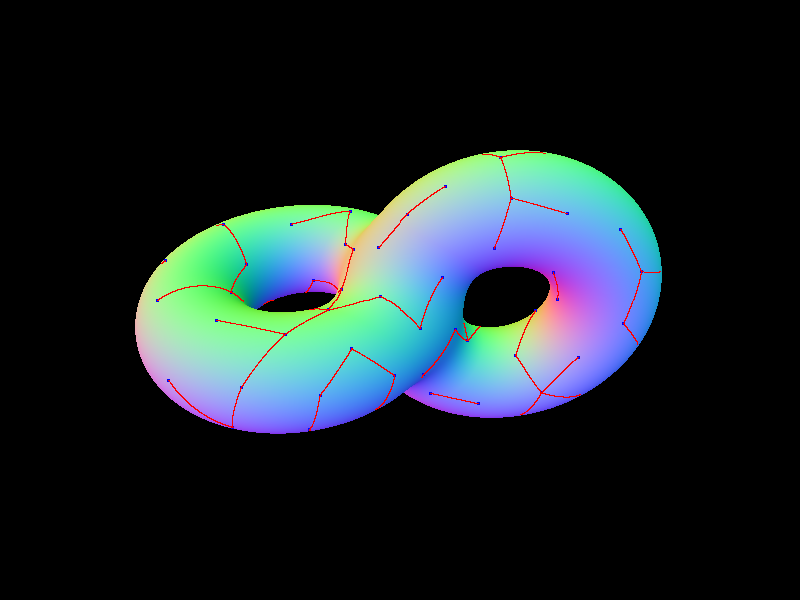
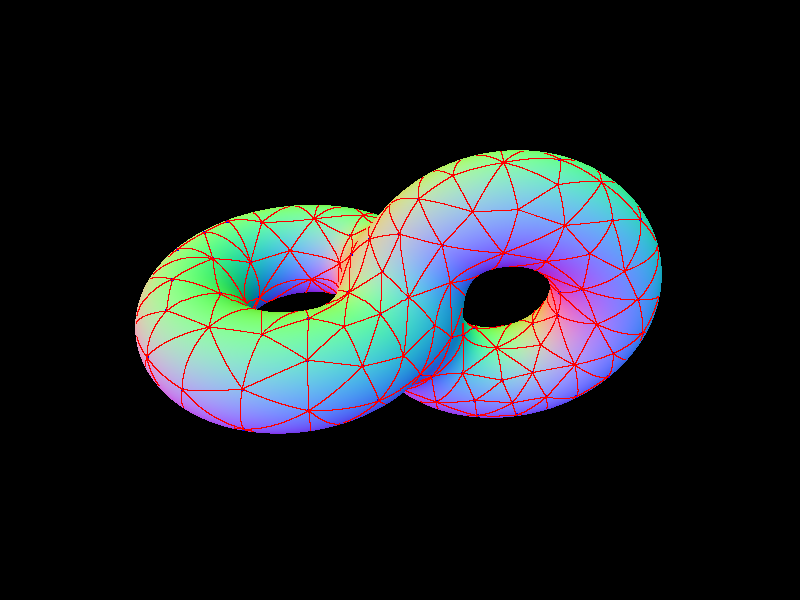
stippled triangles

diff --git a/render.py b/render.py
@@ -1,7 +1,7 @@
 from math import cos, sin, pi, dist
 
 from ray import Ray
-from geo import Point, SurfacePoint, project_to_surface, connect
+from geo import Connection, Point, SurfacePoint, project_to_surface, connect
 from sdf import SDF, sphere, torus, shifted, rotated, smooth_union
 from point import normalize, cross, add, mul, vec, dot
 from cloud import create_cloud
@@ -192,25 +192,31 @@ if __name__ == "__main__":
     image.save("mesh.png")
 
     surface = make_surface(surface_sdf, cloud, triangles)
-    stippled_points = stipple(surface, num_points=100, num_iters=100000)
+    stippled_points = stipple(surface, num_points=200, num_iters=100000)
 
-    for i in range(len(stippled_points)):
-        print(f"Connecting point {i + 1}/{len(stippled_points)}")
-        best_path = []
-        nearest_dist = 1.5
-        for j in range(len(stippled_points)):
-            print(j)
-            if i == j:
-                continue
-            if dist(stippled_points[i].point, stippled_points[j].point) > nearest_dist:
-                continue
-            pts, dst = connect(
-                surface_sdf, stippled_points[i].point, stippled_points[j].point
-            )
-            if dst < nearest_dist:
-                nearest_dist = dst
-                best_path = pts
-        path += best_path
+    dists: dict[tuple[int, int], Connection] = {}
+
+    def get_dist(i: int, j: int) -> Connection:
+        if i > j:
+            i, j = j, i
+        if (i, j) in dists:
+            return Connection([], float("inf"))
+        p = stippled_points[i].point
+        q = stippled_points[j].point
+        dists[(i, j)] = connect(
+            surface_sdf,
+            p,
+            q,
+            eps=1e-3,
+        )
+        return dists[(i, j)]
+
+    stippled_triangles = triangulate(stippled_points, near_dist=0.7)
+    for idx, tri in enumerate(stippled_triangles):
+        print(f"Stippled triangle {idx + 1}/{len(stippled_triangles)}")
+        for i in range(3):
+            idxs = [tri.a_idx, tri.b_idx, tri.c_idx]
+            path += get_dist(idxs[i], idxs[(i + 1) % 3]).points
 
     image = render(
         **render_params,

diff --git a/geo.py b/geo.py
@@ -52,10 +52,14 @@ def closest_approach(
             return Approach(prev, distance_traveled)
         prev = curr
 
+@dataclass
+class Connection:
+    points: list[SurfacePoint]
+    distance: float
 
 def connect(
     sdf: SDF, p: Point, q: Point, *, step_size: float = 1e-3, eps: float = 1e-4
-) -> tuple[list[SurfacePoint], float]:
+) -> Connection:
     start = project_to_surface(sdf, p=p, direction=normalize(vec(p, q)), eps=eps)
     end = project_to_surface(sdf, p=q, direction=normalize(vec(q, p)), eps=eps)
     approach = closest_approach(start, end, step_size=step_size)
@@ -126,4 +130,4 @@ def connect(
         final_start = final_start.move(step_size)
         path.append(final_start)
         distance_traveled += step_size
-    return (path, distance_traveled)
+    return Connection(path, distance_traveled)
